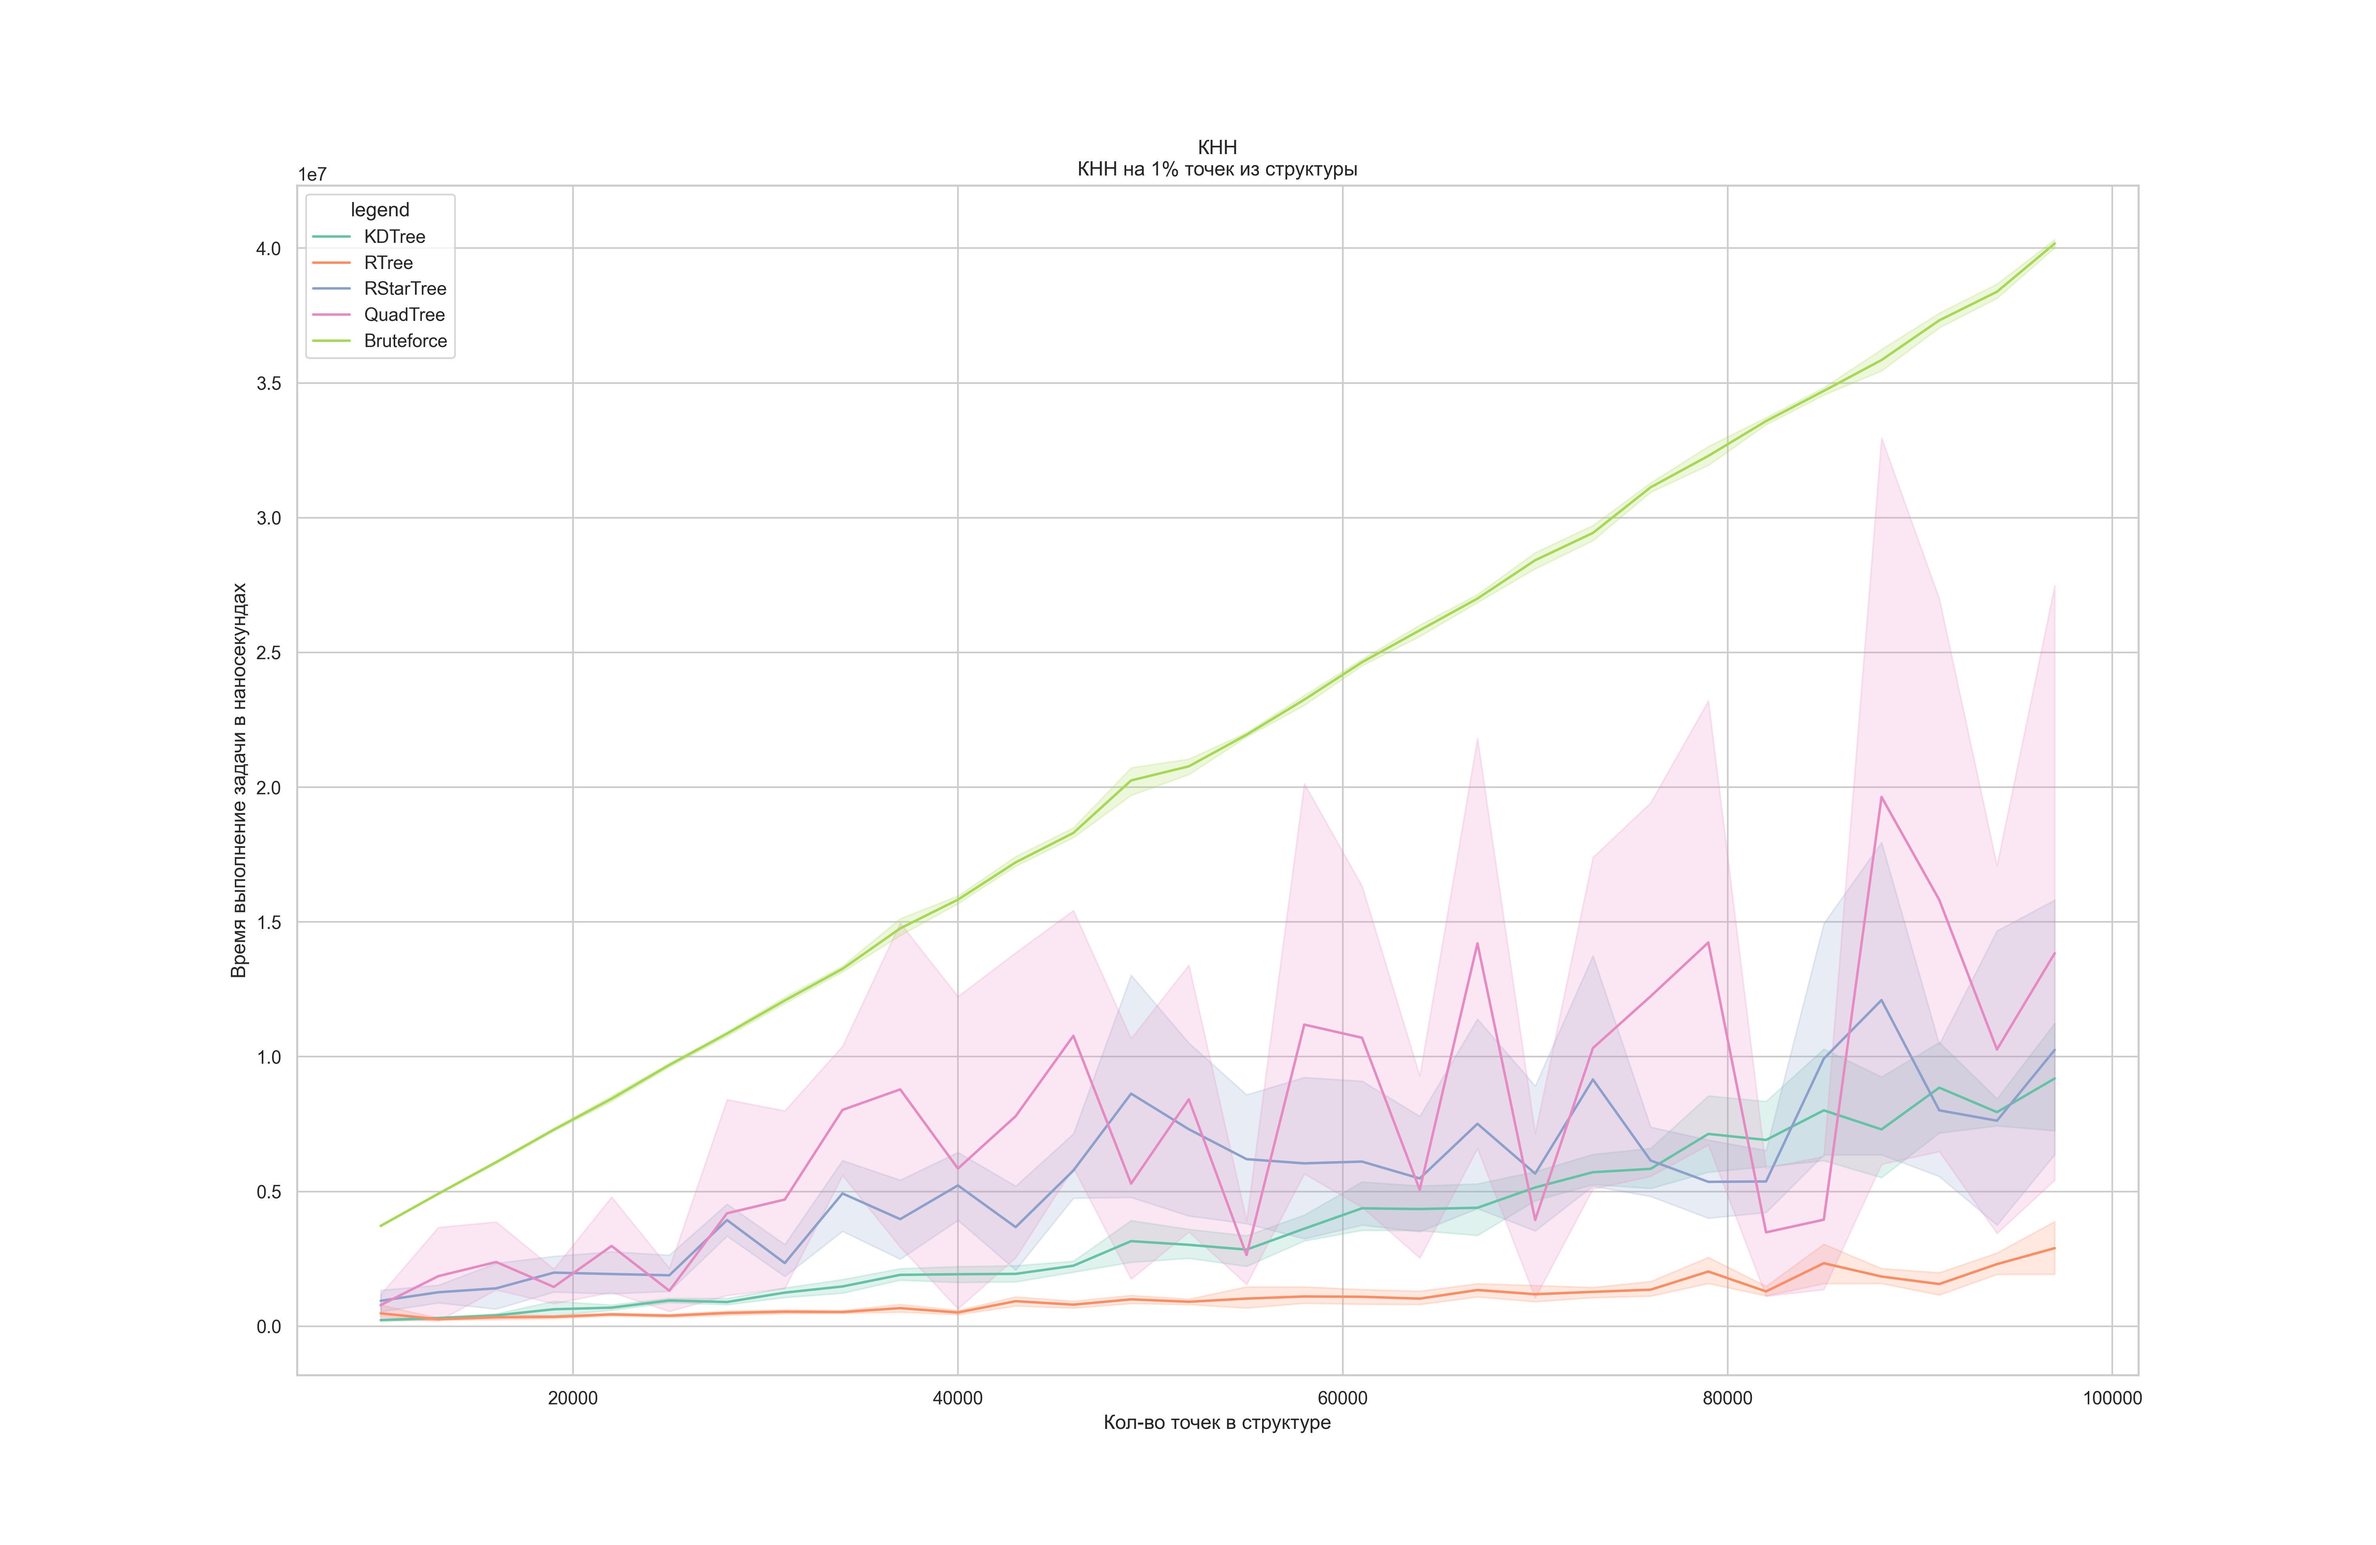
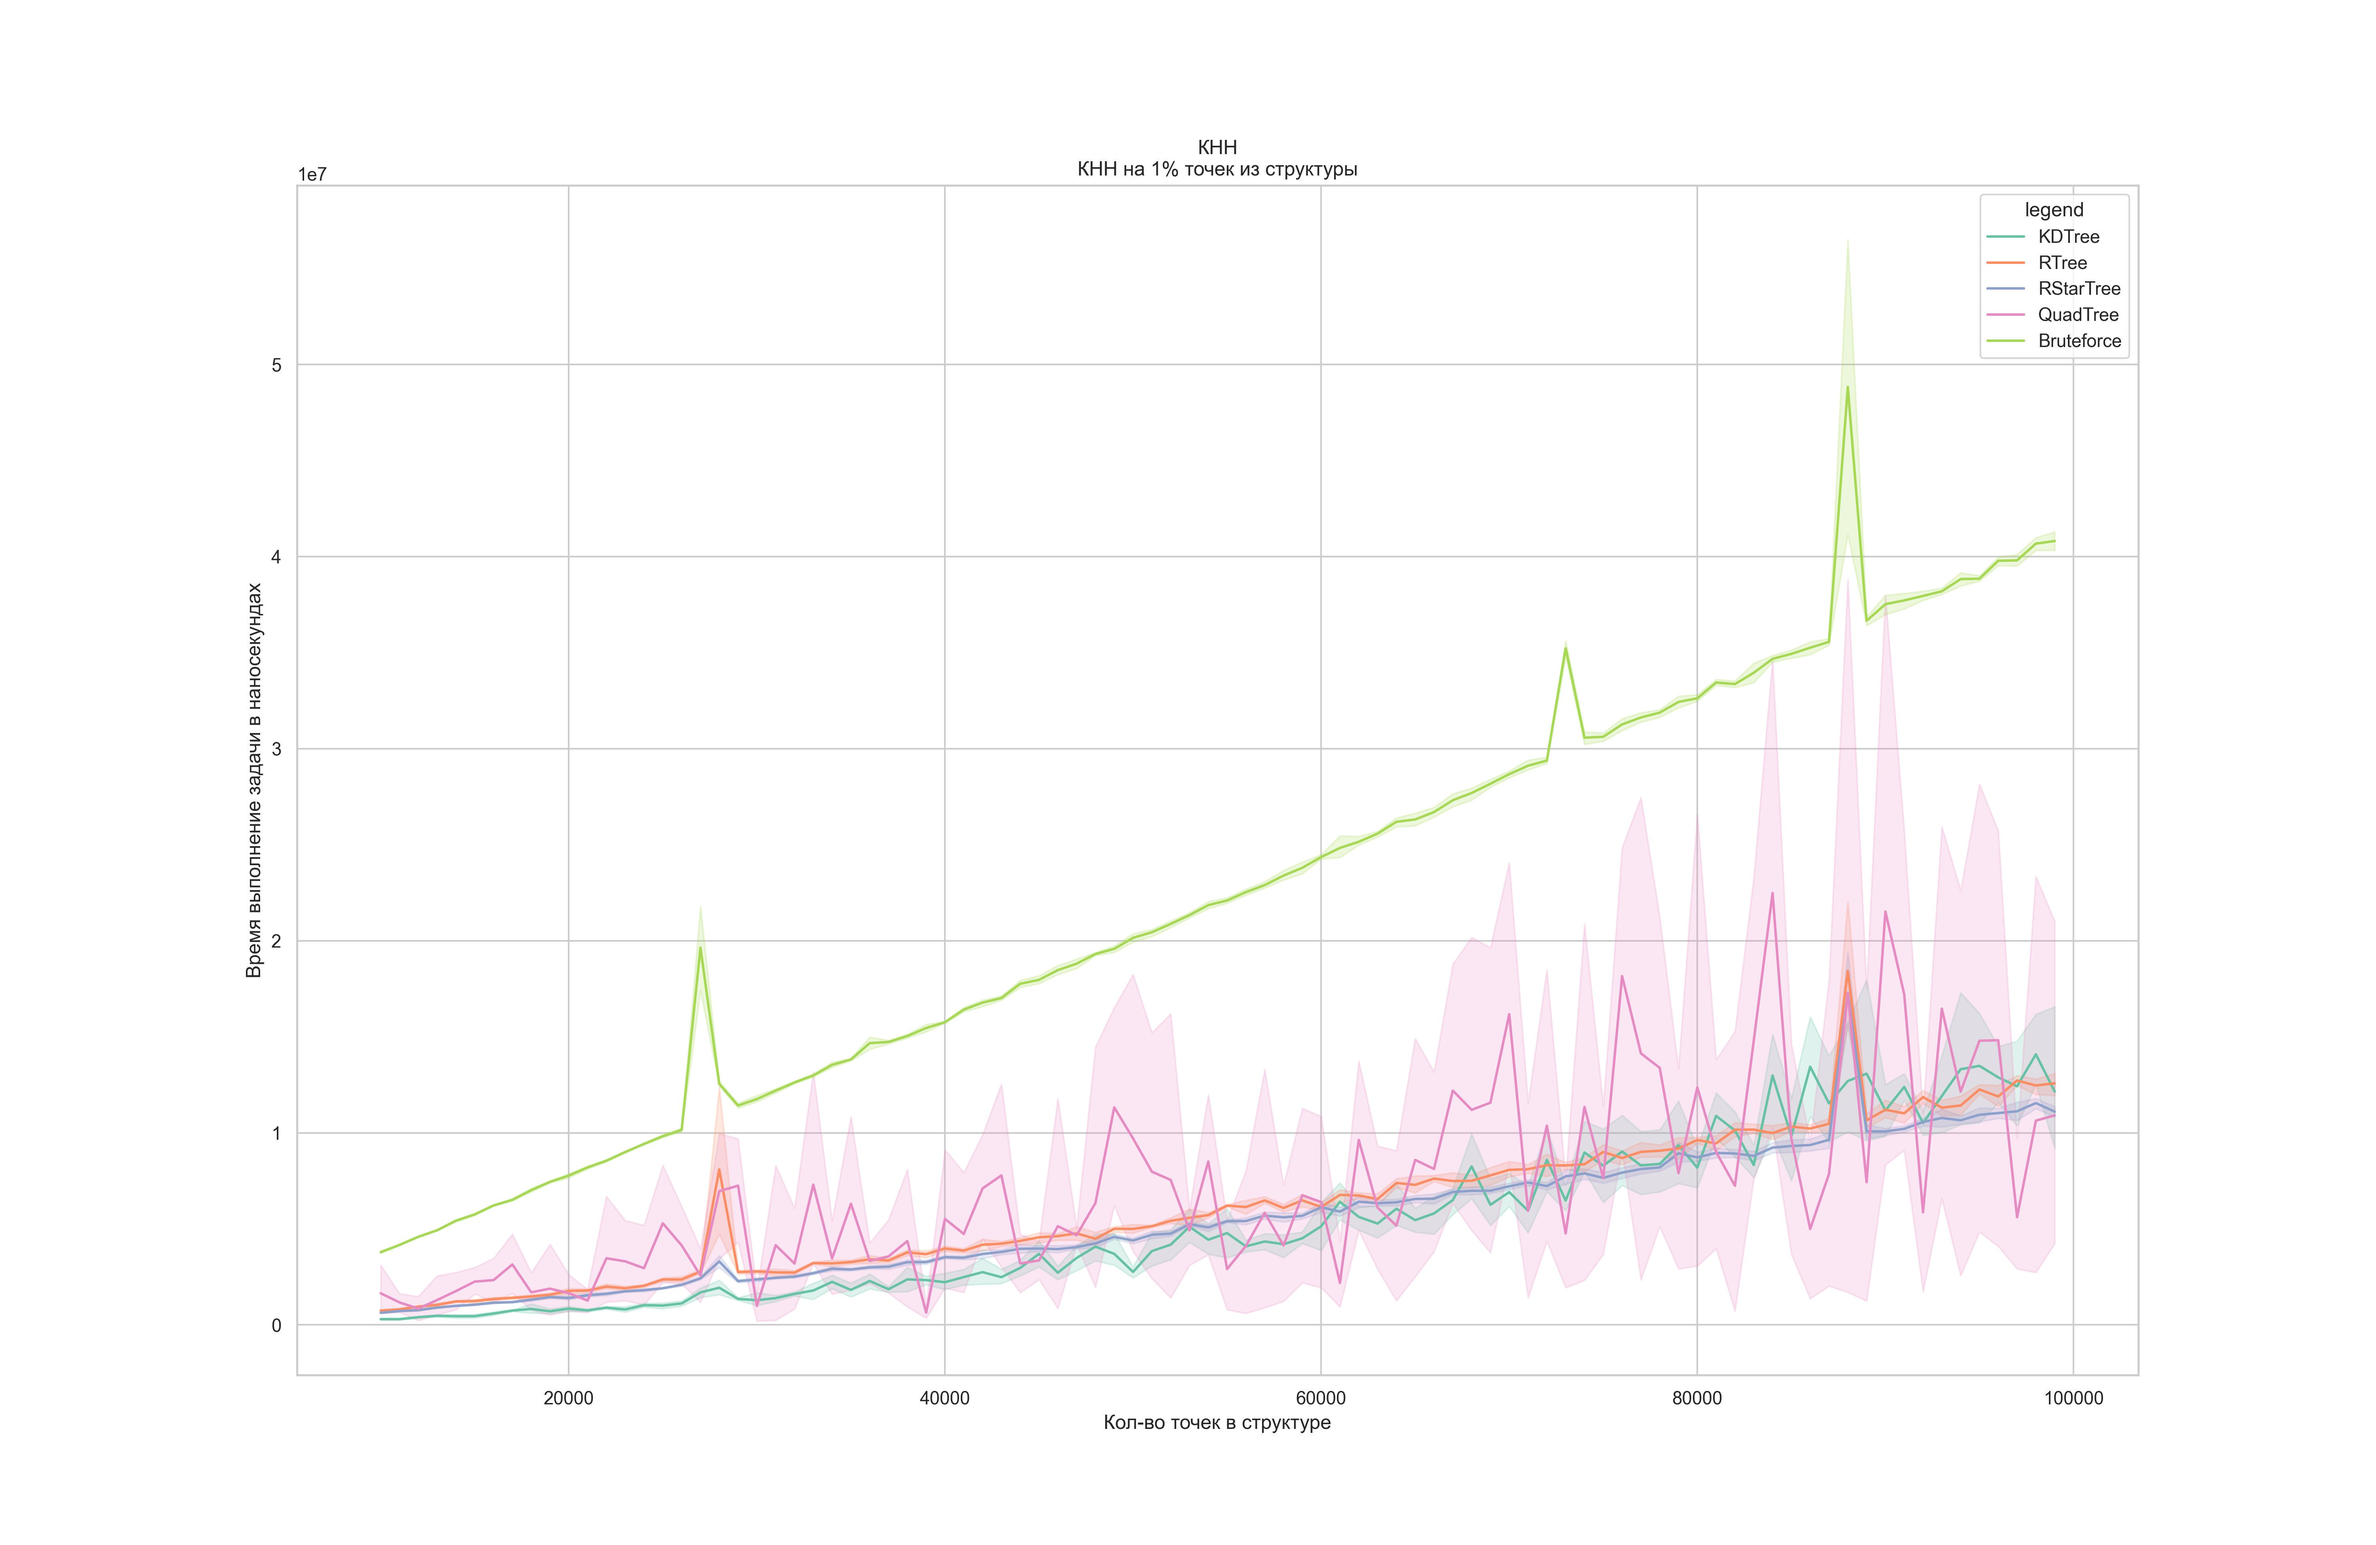
auto: autocommit

diff --git a/core/cases/run/main.go b/core/cases/run/main.go
@@ -14,12 +14,12 @@ func main() {
 
 var (
 	allCases = cases.RunCase{
-		Name:        "big",
-		Collections: addapter_all.All(),
-		Tasks:       tasks.AllOnePerType,
+		Name:        "big_no_brute",
+		Collections: addapter_all.AllWithoutBruteforce(),
+		Tasks:       tasks.KnnAndRadiusSearch,
 		AmountStart: 100_000,
 		AmountEnd:   1_000_000,
-		AmountStep:  200_000,
+		AmountStep:  30_000,
 	}
 
 	kdVsRtree = cases.RunCase{
@@ -34,10 +34,10 @@ var (
 	allCasesMedium = cases.RunCase{
 		Name:        "medium",
 		Collections: addapter_all.All(),
-		Tasks:       tasks.OnlyRadiusSearch,
+		Tasks:       tasks.KnnAndRadiusSearch,
 		AmountStart: 10_000,
 		AmountEnd:   100_000,
-		AmountStep:  3_000,
+		AmountStep:  1_000,
 	}
 
 	allCasesSmallAmount = cases.RunCase{

diff --git a/docs/ScienceDays.md b/docs/ScienceDays.md
@@ -1,10 +1,11 @@
+Преза: https://docs.google.com/presentation/d/1kSzTfOWmmxW3PNvUgm5oYcwbPynePBmc/edit#slide=id.p2
+
 ## актуальность проблематики работы/исследования/проекта;
-- Касандра, Elasticsearch - kdtree
-- Redis, Postgis, 
-- GeoHash + btree: mongo, dynamo
-- R-Tree: postgresql, redis, oracle, tile38
-- R*-Tree: sqlite
-- H3: clickhouse
+- KDtree - Apache Cassandra, Elasticsearch 
+- GeoHash(S2) + btree -  mongo, dynamo
+- R-Tree - Postgresql(Postgis), redis, oracle, tile38
+- R*-Tree - sqlite
+- H3 - clickhouse
 
 ## предметная область;
 
